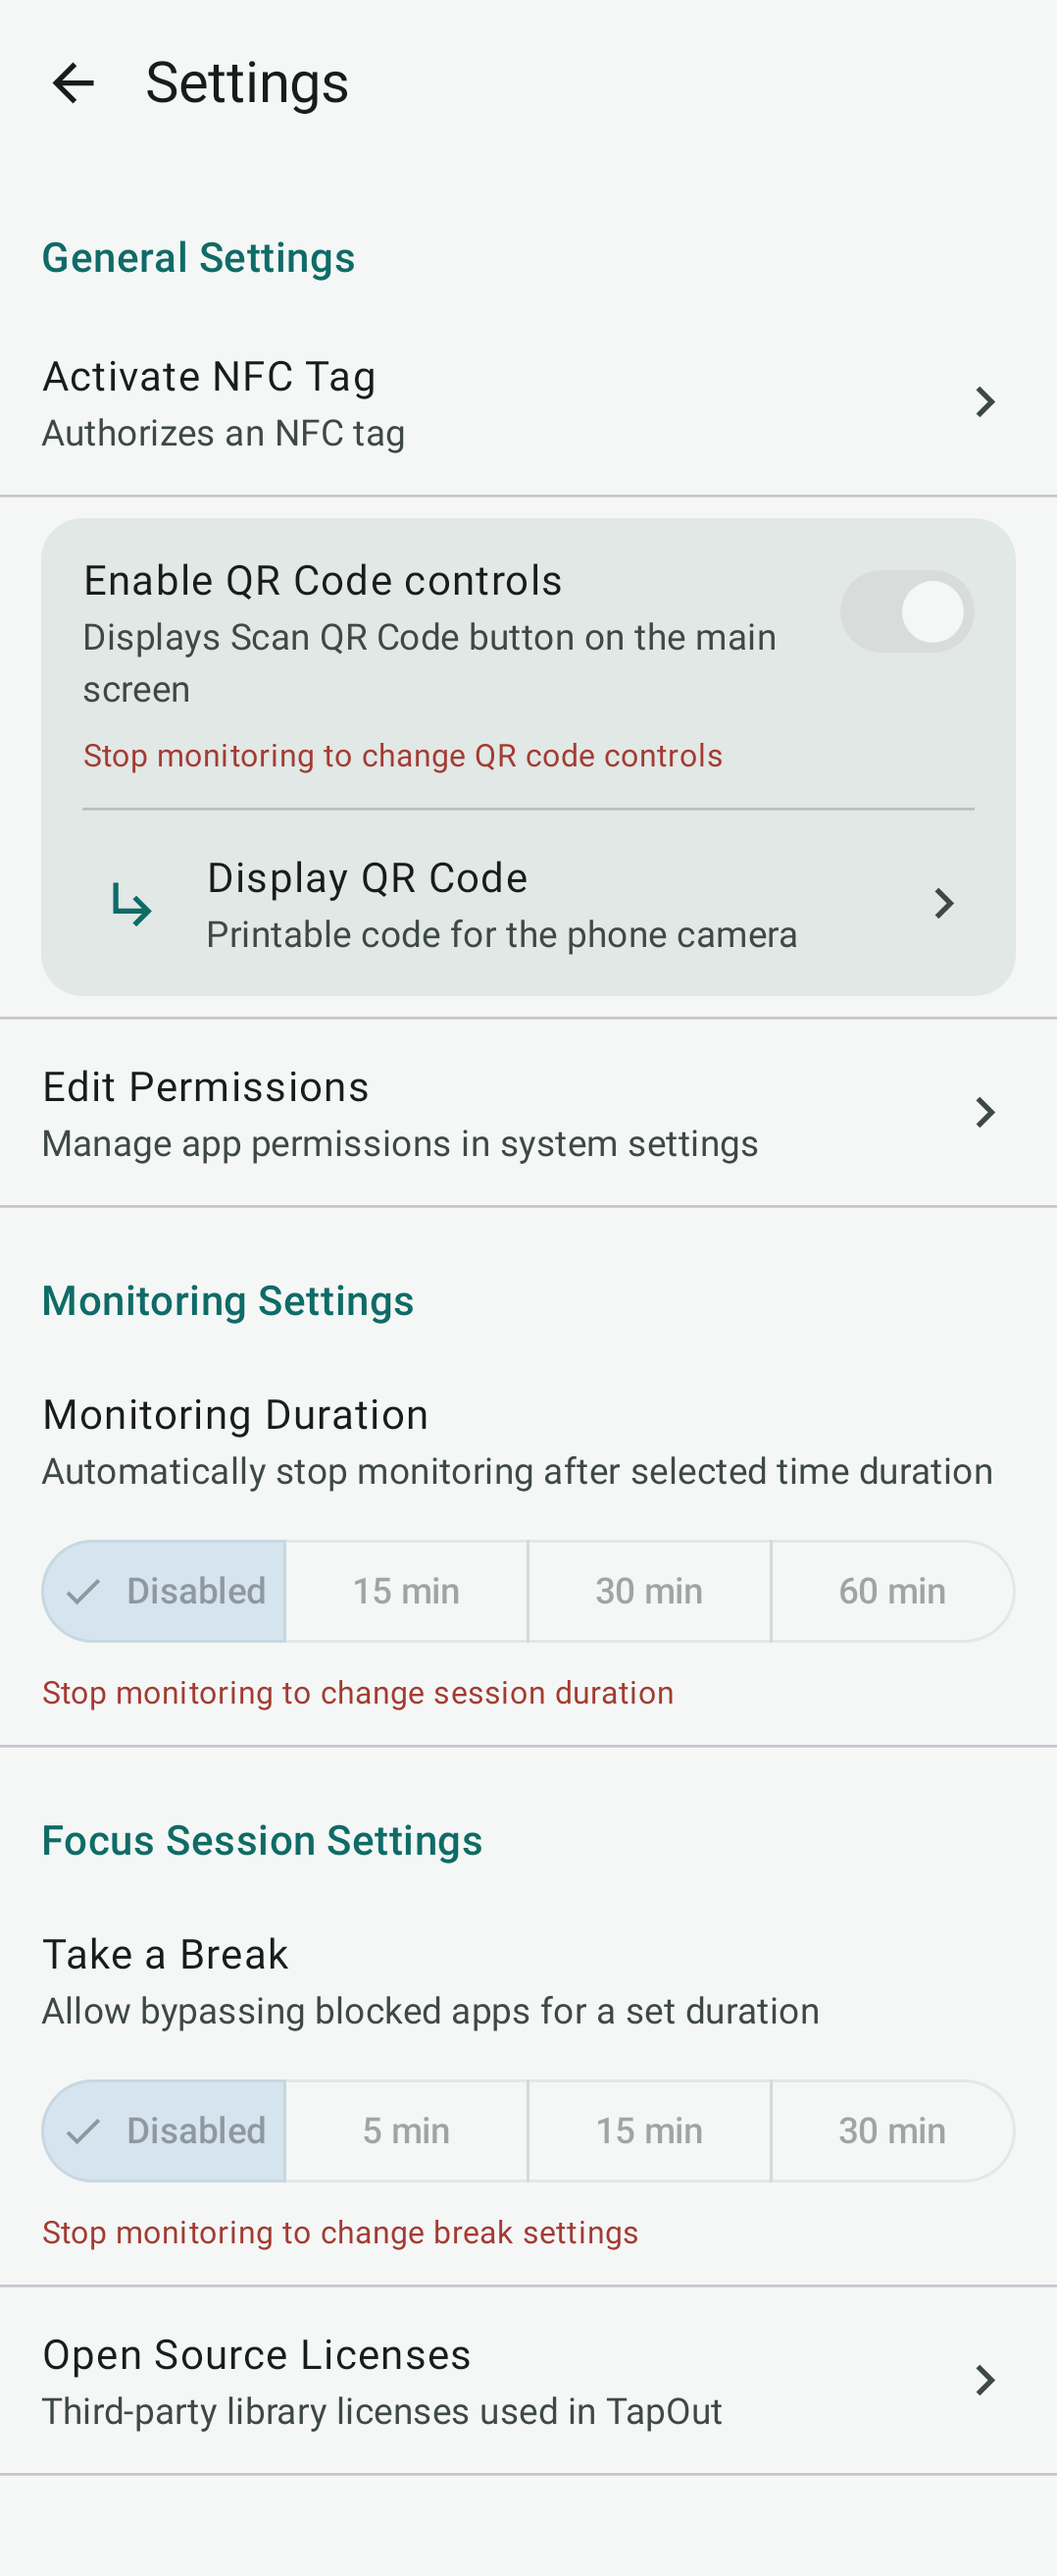
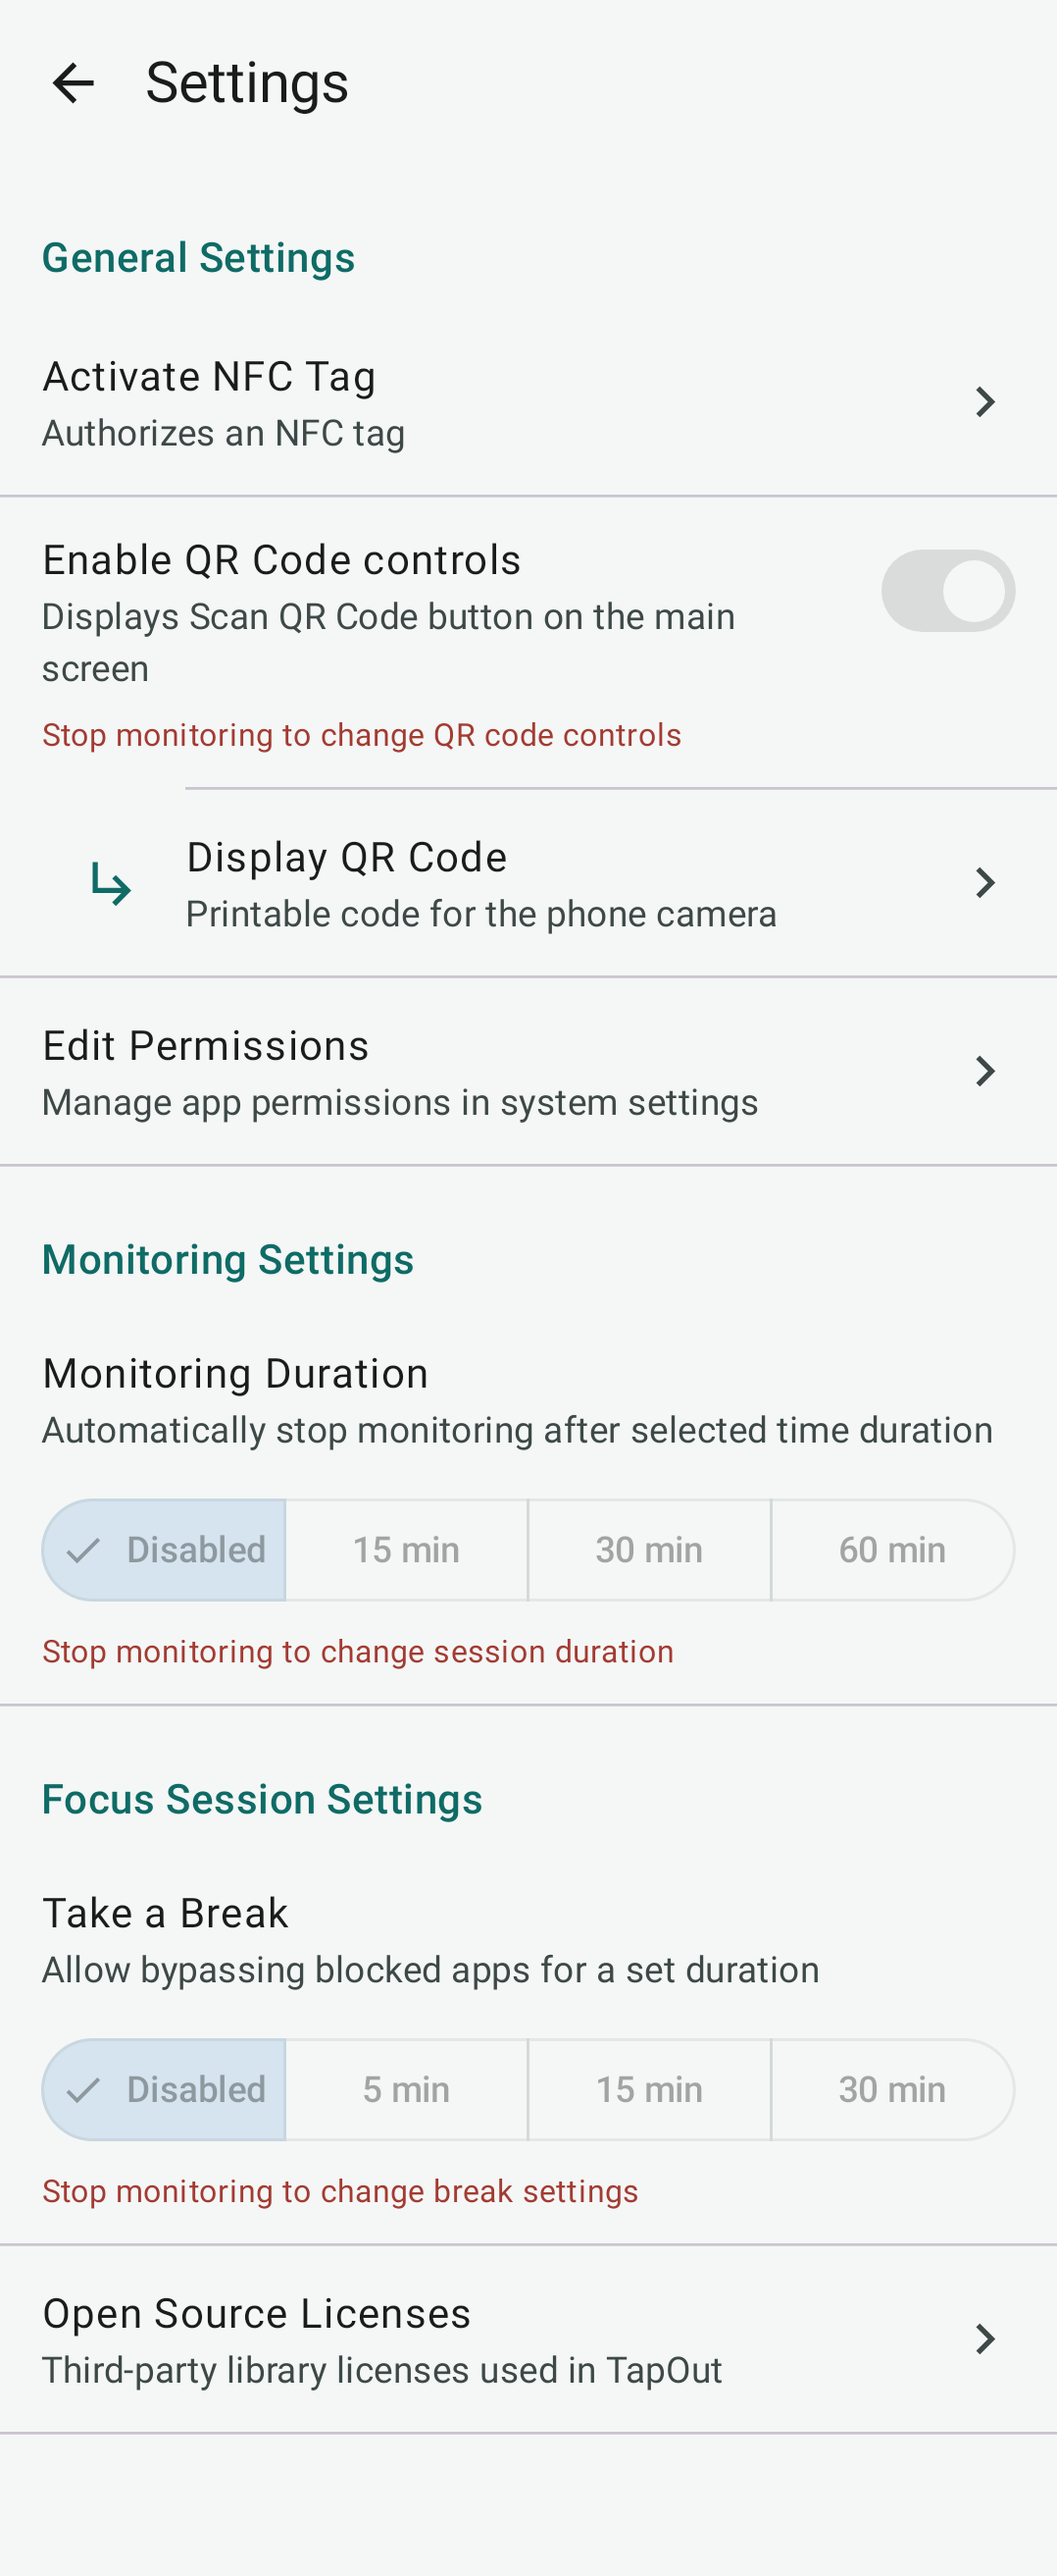
fix: indent Display QR Code without a gray card
The QR controls switch sits in the settings list with the other rows.
Display QR Code stays nested under it, indented.

diff --git a/app/src/main/java/com/galynte/tapblok/SettingsActivity.kt b/app/src/main/java/com/galynte/tapblok/SettingsActivity.kt
@@ -28,7 +28,6 @@ import androidx.activity.compose.setContent
 import androidx.compose.foundation.clickable
 import androidx.compose.foundation.layout.*
 import androidx.compose.foundation.rememberScrollState
-import androidx.compose.foundation.shape.RoundedCornerShape
 import androidx.compose.foundation.verticalScroll
 import androidx.compose.material.icons.Icons
 import androidx.compose.material.icons.filled.ChevronRight
@@ -36,7 +35,6 @@ import androidx.compose.material.icons.filled.SubdirectoryArrowRight
 import androidx.compose.material3.*
 import androidx.compose.runtime.*
 import androidx.compose.ui.Modifier
-import androidx.compose.ui.graphics.Color
 import androidx.compose.ui.platform.testTag
 import androidx.compose.ui.unit.dp
 import androidx.core.content.edit
@@ -141,68 +139,53 @@ fun SettingsScreen(
                 modifier = Modifier.clickable(onClick = onWriteNfcTagClick)
             )
             HorizontalDivider()
-            Surface(
-                modifier = Modifier
-                    .padding(horizontal = 16.dp, vertical = 8.dp)
-                    .fillMaxWidth(),
-                shape = RoundedCornerShape(16.dp),
-                color = MaterialTheme.colorScheme.surfaceVariant
-            ) {
-                Column {
-                    ListItem(
-                        headlineContent = { Text("Enable QR Code controls") },
-                        supportingContent = {
-                            Column {
-                                Text("Displays Scan QR Code button on the main screen")
-                                if (isMonitoringActive) {
-                                    Text(
-                                        text = "Stop monitoring to change QR code controls",
-                                        style = MaterialTheme.typography.bodySmall,
-                                        color = MaterialTheme.colorScheme.error,
-                                        modifier = Modifier.padding(top = 8.dp)
-                                    )
-                                }
+            ListItem(
+                headlineContent = { Text("Enable QR Code controls") },
+                supportingContent = {
+                    Column {
+                        Text("Displays Scan QR Code button on the main screen")
+                        if (isMonitoringActive) {
+                            Text(
+                                text = "Stop monitoring to change QR code controls",
+                                style = MaterialTheme.typography.bodySmall,
+                                color = MaterialTheme.colorScheme.error,
+                                modifier = Modifier.padding(top = 8.dp)
+                            )
+                        }
+                    }
+                },
+                trailingContent = {
+                    Switch(
+                        checked = localEnableQrCode,
+                        onCheckedChange = { isChecked ->
+                            if (!isMonitoringActive) {
+                                localEnableQrCode = isChecked
+                                onEnableQrCodeChanged(isChecked)
                             }
                         },
-                        trailingContent = {
-                            Switch(
-                                checked = localEnableQrCode,
-                                onCheckedChange = { isChecked ->
-                                    if (!isMonitoringActive) {
-                                        localEnableQrCode = isChecked
-                                        onEnableQrCodeChanged(isChecked)
-                                    }
-                                },
-                                enabled = !isMonitoringActive,
-                                modifier = Modifier.testTag("qr_code_controls_switch")
-                            )
-                        },
-                        colors = ListItemDefaults.colors(containerColor = Color.Transparent)
+                        enabled = !isMonitoringActive,
+                        modifier = Modifier.testTag("qr_code_controls_switch")
                     )
-                    if (localEnableQrCode) {
-                        HorizontalDivider(
-                            modifier = Modifier.padding(horizontal = 16.dp),
-                            color = MaterialTheme.colorScheme.outline.copy(alpha = 0.35f)
-                        )
-                        ListItem(
-                            headlineContent = { Text("Display QR Code") },
-                            supportingContent = { Text("Printable code for the phone camera") },
-                            leadingContent = {
-                                Icon(
-                                    Icons.Filled.SubdirectoryArrowRight,
-                                    contentDescription = null,
-                                    modifier = Modifier.padding(start = 8.dp),
-                                    tint = MaterialTheme.colorScheme.primary
-                                )
-                            },
-                            trailingContent = {
-                                Icon(Icons.Filled.ChevronRight, contentDescription = null)
-                            },
-                            colors = ListItemDefaults.colors(containerColor = Color.Transparent),
-                            modifier = Modifier.clickable(onClick = onShowQrCodeClick)
-                        )
-                    }
                 }
+            )
+            if (localEnableQrCode) {
+                HorizontalDivider(modifier = Modifier.padding(start = 72.dp))
+                ListItem(
+                    headlineContent = { Text("Display QR Code") },
+                    supportingContent = { Text("Printable code for the phone camera") },
+                    leadingContent = {
+                        Icon(
+                            Icons.Filled.SubdirectoryArrowRight,
+                            contentDescription = null,
+                            modifier = Modifier.padding(start = 16.dp),
+                            tint = MaterialTheme.colorScheme.primary
+                        )
+                    },
+                    trailingContent = {
+                        Icon(Icons.Filled.ChevronRight, contentDescription = null)
+                    },
+                    modifier = Modifier.clickable(onClick = onShowQrCodeClick)
+                )
             }
             HorizontalDivider()
             ListItem(

diff --git a/CHANGELOG.md b/CHANGELOG.md
@@ -1,3 +1,9 @@
+# Unreleased
+
+### Bug Fixes
+
+* Drop the gray card around QR code controls. Display QR Code stays indented under the switch.
+
 # 1.3.1 (2026-11-03)
 
 ### Bug Fixes
